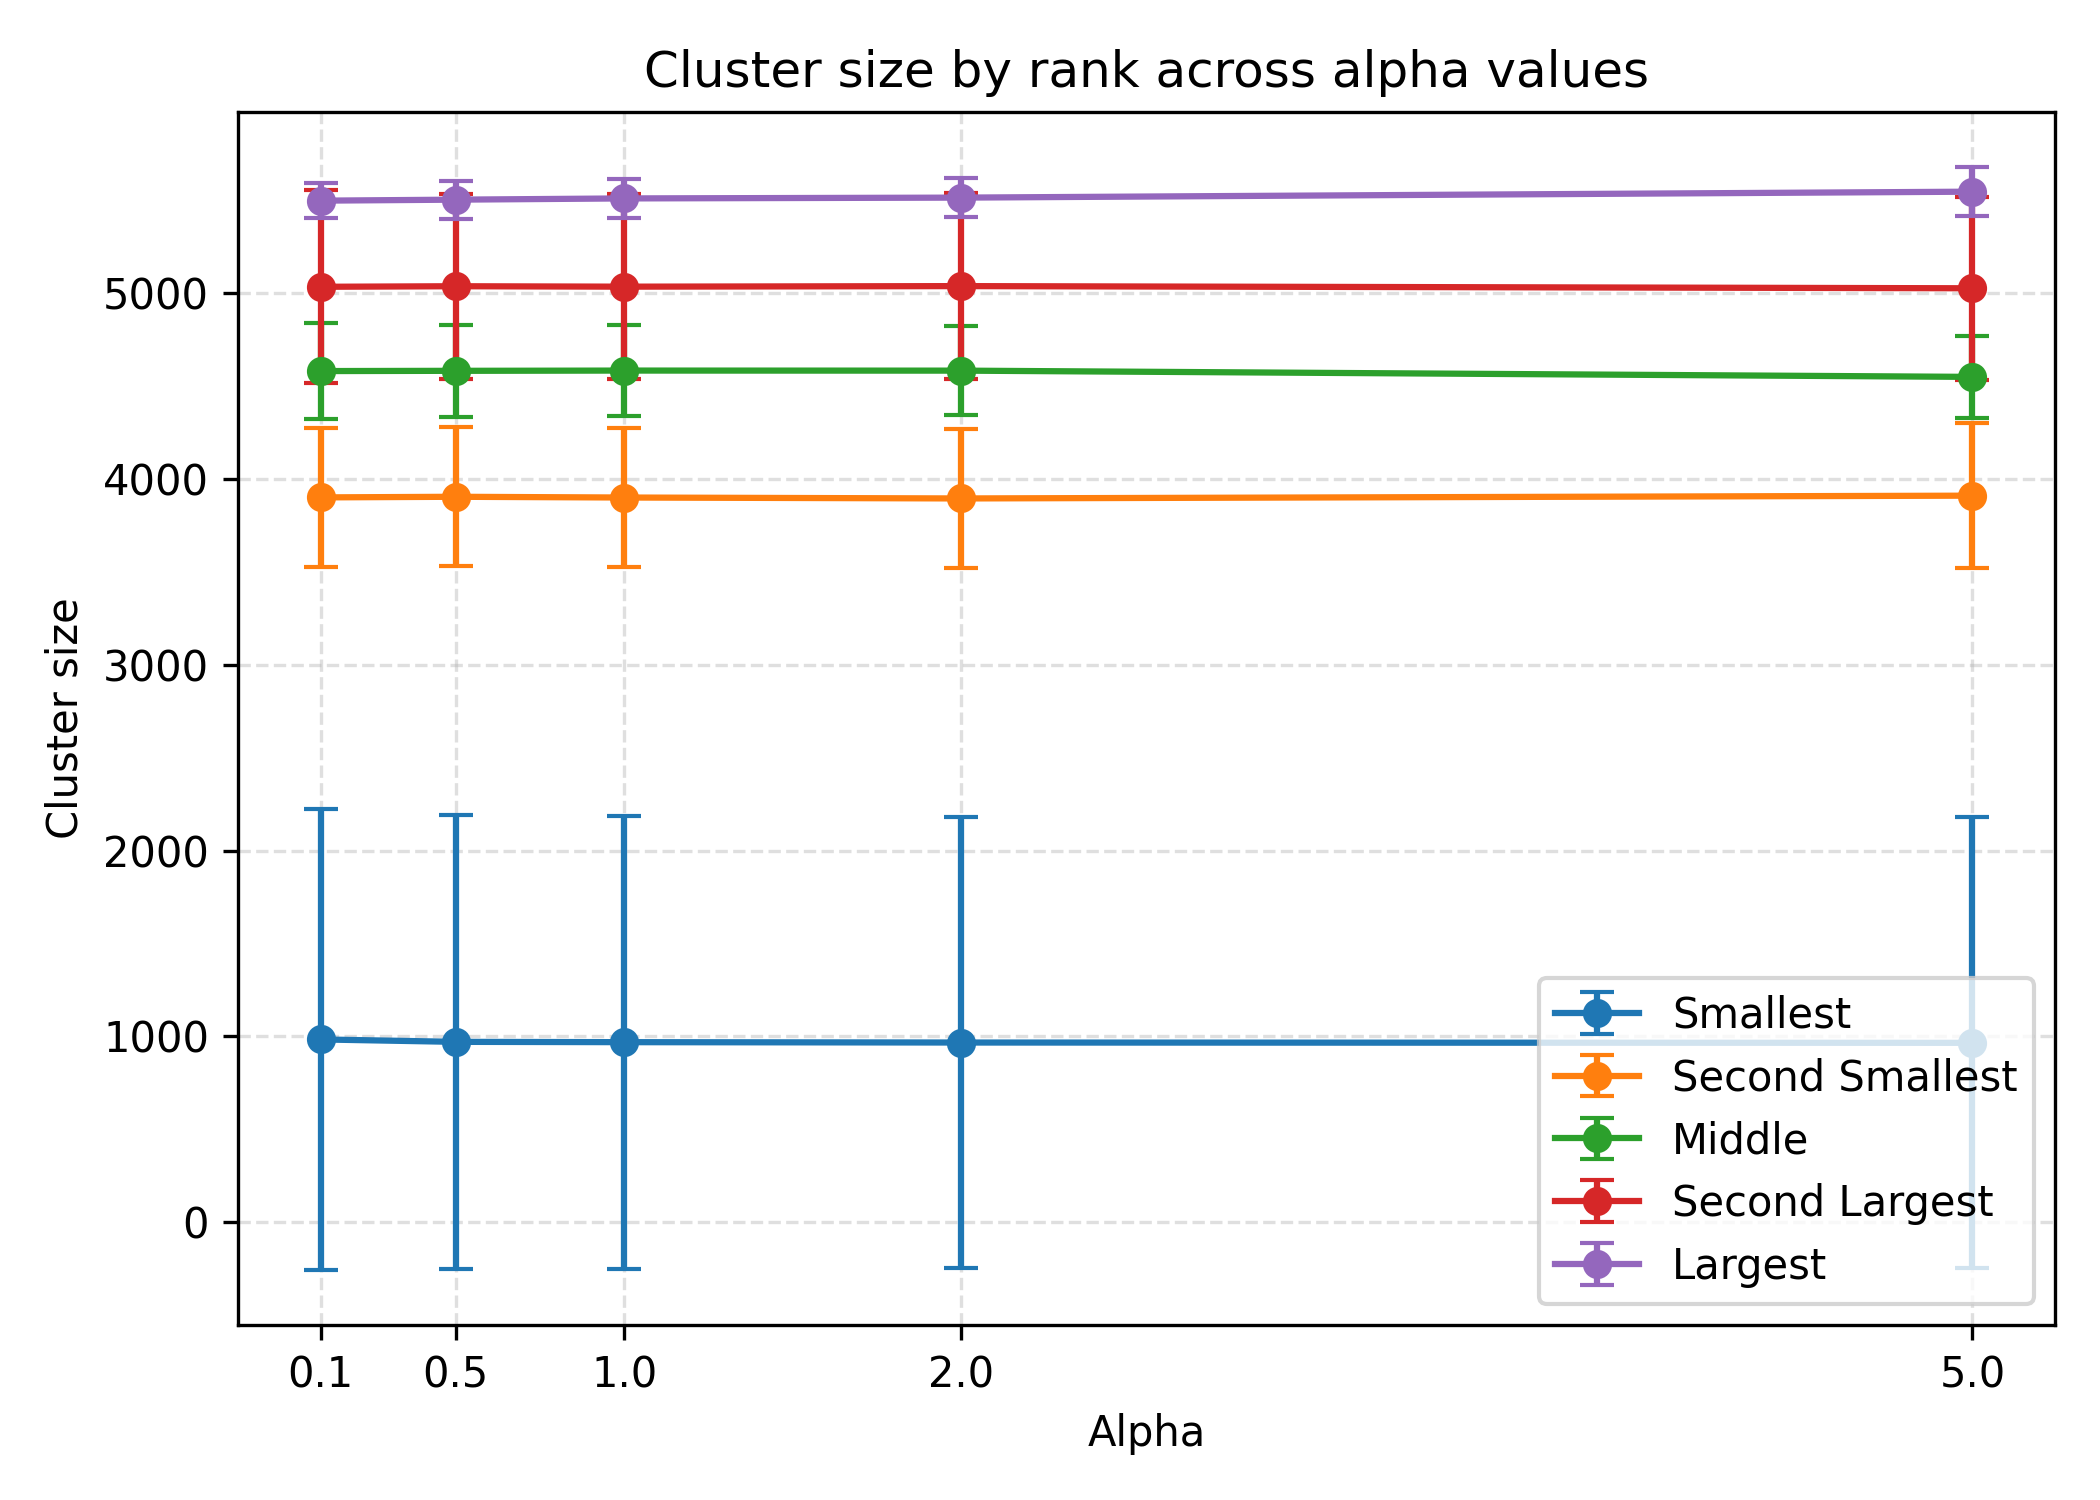
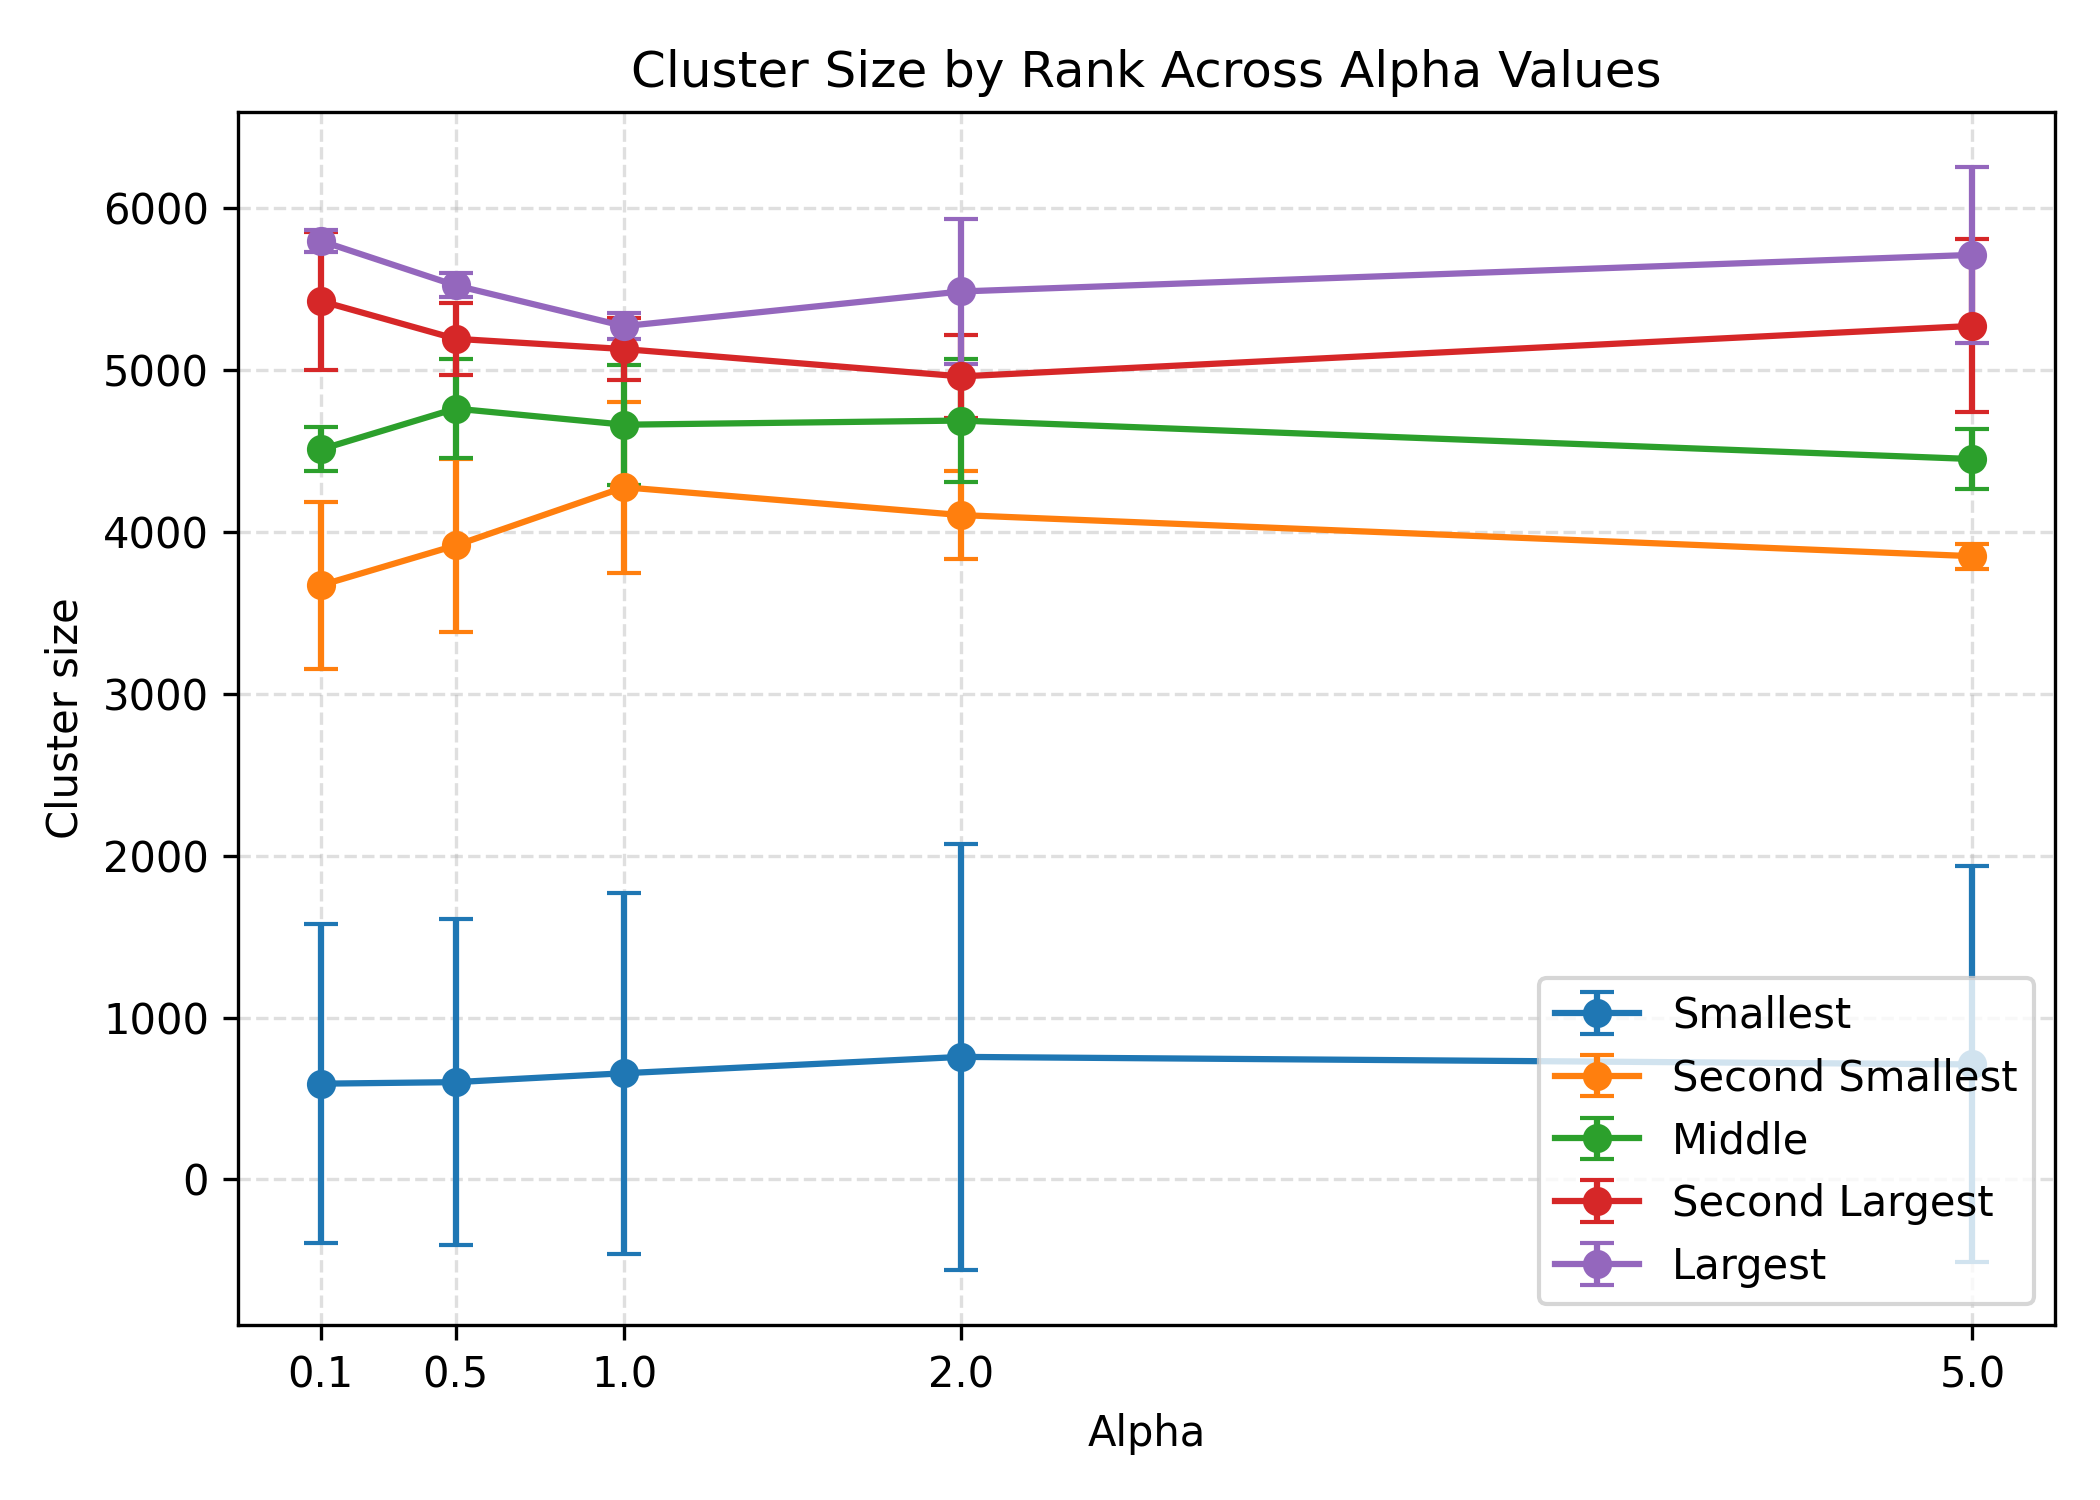
analysis: finalize alpha sensitivity results

diff --git a/analysis/alpha_sensitivity/aggregated/alpha_summary_table.md b/analysis/alpha_sensitivity/aggregated/alpha_summary_table.md
@@ -1,7 +1,7 @@
 |   alpha |   train_kl_mean |   train_kl_std |   val_kl_mean |   val_kl_std |   silhouette_mean |   silhouette_std |   davies_bouldin_mean |   davies_bouldin_std |   calinski_harabasz_mean |   calinski_harabasz_std |   entropy_mean |   entropy_std |   mean_ari |   std_ari |   smallest_cluster_mean |   smallest_cluster_std |   largest_cluster_mean |   largest_cluster_std |
 |--------:|----------------:|---------------:|--------------:|-------------:|------------------:|-----------------:|----------------------:|---------------------:|-------------------------:|------------------------:|---------------:|--------------:|-----------:|----------:|------------------------:|-----------------------:|-----------------------:|----------------------:|
-|     0.1 |          0.0664 |         0.0023 |        0.068  |       0.0022 |            0.2284 |           0.0137 |                1.2164 |               0.1294 |                  6827.11 |                 71.514  |         1.487  |        0.0265 |     0.6995 |    0.1771 |                 983.667 |                1241.21 |                5498.67 |                93.845 |
-|     0.5 |          0.0508 |         0.0011 |        0.0528 |       0.0011 |            0.2283 |           0.0137 |                1.2165 |               0.1294 |                  6822.65 |                 70.7889 |         1.4989 |        0.031  |     0.699  |    0.1792 |                 970.667 |                1221.41 |                5504    |               102.375 |
-|     1   |          0.0467 |         0.0008 |        0.0489 |       0.0008 |            0.2283 |           0.0137 |                1.2167 |               0.1296 |                  6820.98 |                 70.2129 |         1.494  |        0.0363 |     0.6996 |    0.1808 |                 969     |                1219.05 |                5510.67 |               106.058 |
-|     2   |          0.045  |         0.0005 |        0.0475 |       0.0005 |            0.2282 |           0.0137 |                1.217  |               0.1296 |                  6819.51 |                 70.0465 |         1.4814 |        0.0443 |     0.7004 |    0.1817 |                 967     |                1216.22 |                5515    |               104.298 |
-|     5   |          0.0446 |         0.0002 |        0.0474 |       0.0002 |            0.2281 |           0.0136 |                1.2178 |               0.1292 |                  6819.12 |                 70.3288 |         1.4586 |        0.0566 |     0.6853 |    0.1664 |                 965.333 |                1213.87 |                5547    |               132.03  |
+|     0.1 |          0.0733 |         0.001  |        0.0712 |       0.0012 |            0.2299 |           0.0148 |                1.1632 |               0.1065 |                  6717.67 |                 87.0057 |         1.464  |        0.0268 |     0.7914 |    0.1934 |                   591   |                  986   |                 5799.4 |               66.9107 |
+|     0.5 |          0.0654 |         0.0012 |        0.0636 |       0.0007 |            0.2283 |           0.0154 |                1.1524 |               0.1144 |                  6673.65 |                 97.5856 |         1.4634 |        0.0321 |     0.7874 |    0.1929 |                   600.6 |                 1006.7 |                 5524.4 |               73.6847 |
+|     1   |          0.0675 |         0.002  |        0.0658 |       0.0011 |            0.226  |           0.015  |                1.1482 |               0.1309 |                  6635.4  |                 93.4826 |         1.4449 |        0.0376 |     0.7858 |    0.191  |                   655.6 |                 1115.7 |                 5272.8 |               79.2121 |
+|     2   |          0.0745 |         0.0026 |        0.0729 |       0.0013 |            0.2209 |           0.0139 |                1.1496 |               0.1539 |                  6536.32 |                 78.7128 |         1.4066 |        0.0456 |     0.7977 |    0.1827 |                   756.6 |                 1317.2 |                 5487   |              447.078  |
+|     5   |          0.086  |         0.0023 |        0.0875 |       0.0008 |            0.2157 |           0.0128 |                1.1702 |               0.1701 |                  6416.09 |                 80.1997 |         1.3174 |        0.0578 |     0.8124 |    0.1623 |                   710.2 |                 1223.4 |                 5713.2 |              542.15   |

diff --git a/analysis/alpha_sensitivity/aggregated/paper_alpha_summary_table.md b/analysis/alpha_sensitivity/aggregated/paper_alpha_summary_table.md
@@ -1,7 +1,7 @@
 |   α | Train KL        | Validation KL   | Silhouette      | DB Index        | CH Score        | Entropy         | ARI             | Smallest Cluster   | Largest Cluster   |
 |----:|:----------------|:----------------|:----------------|:----------------|:----------------|:----------------|:----------------|:-------------------|:------------------|
-| 0.1 | 0.0664 ± 0.0023 | 0.0680 ± 0.0022 | 0.2284 ± 0.0137 | 1.2164 ± 0.1294 | 6827.11 ± 71.51 | 1.4870 ± 0.0265 | 0.6995 ± 0.1771 | 983.7 ± 1241.2     | 5498.7 ± 93.8     |
-| 0.5 | 0.0508 ± 0.0011 | 0.0528 ± 0.0011 | 0.2283 ± 0.0137 | 1.2165 ± 0.1294 | 6822.65 ± 70.79 | 1.4989 ± 0.0310 | 0.6990 ± 0.1792 | 970.7 ± 1221.4     | 5504.0 ± 102.4    |
-| 1   | 0.0467 ± 0.0008 | 0.0489 ± 0.0008 | 0.2283 ± 0.0137 | 1.2167 ± 0.1296 | 6820.98 ± 70.21 | 1.4940 ± 0.0363 | 0.6996 ± 0.1808 | 969.0 ± 1219.1     | 5510.7 ± 106.1    |
-| 2   | 0.0450 ± 0.0005 | 0.0475 ± 0.0005 | 0.2282 ± 0.0137 | 1.2170 ± 0.1296 | 6819.51 ± 70.05 | 1.4814 ± 0.0443 | 0.7004 ± 0.1817 | 967.0 ± 1216.2     | 5515.0 ± 104.3    |
-| 5   | 0.0446 ± 0.0002 | 0.0474 ± 0.0002 | 0.2281 ± 0.0136 | 1.2178 ± 0.1292 | 6819.12 ± 70.33 | 1.4586 ± 0.0566 | 0.6853 ± 0.1664 | 965.3 ± 1213.9     | 5547.0 ± 132.0    |
+| 0.1 | 0.0733 ± 0.0010 | 0.0712 ± 0.0012 | 0.2299 ± 0.0148 | 1.1632 ± 0.1065 | 6717.67 ± 87.01 | 1.4640 ± 0.0268 | 0.7914 ± 0.1934 | 591.0 ± 986.0      | 5799.4 ± 66.9     |
+| 0.5 | 0.0654 ± 0.0012 | 0.0636 ± 0.0007 | 0.2283 ± 0.0154 | 1.1524 ± 0.1144 | 6673.65 ± 97.59 | 1.4634 ± 0.0321 | 0.7874 ± 0.1929 | 600.6 ± 1006.7     | 5524.4 ± 73.7     |
+| 1   | 0.0675 ± 0.0020 | 0.0658 ± 0.0011 | 0.2260 ± 0.0150 | 1.1482 ± 0.1309 | 6635.40 ± 93.48 | 1.4449 ± 0.0376 | 0.7858 ± 0.1910 | 655.6 ± 1115.7     | 5272.8 ± 79.2     |
+| 2   | 0.0745 ± 0.0026 | 0.0729 ± 0.0013 | 0.2209 ± 0.0139 | 1.1496 ± 0.1539 | 6536.32 ± 78.71 | 1.4066 ± 0.0456 | 0.7977 ± 0.1827 | 756.6 ± 1317.2     | 5487.0 ± 447.1    |
+| 5   | 0.0860 ± 0.0023 | 0.0875 ± 0.0008 | 0.2157 ± 0.0128 | 1.1702 ± 0.1701 | 6416.09 ± 80.20 | 1.3174 ± 0.0578 | 0.8124 ± 0.1623 | 710.2 ± 1223.4     | 5713.2 ± 542.2    |
